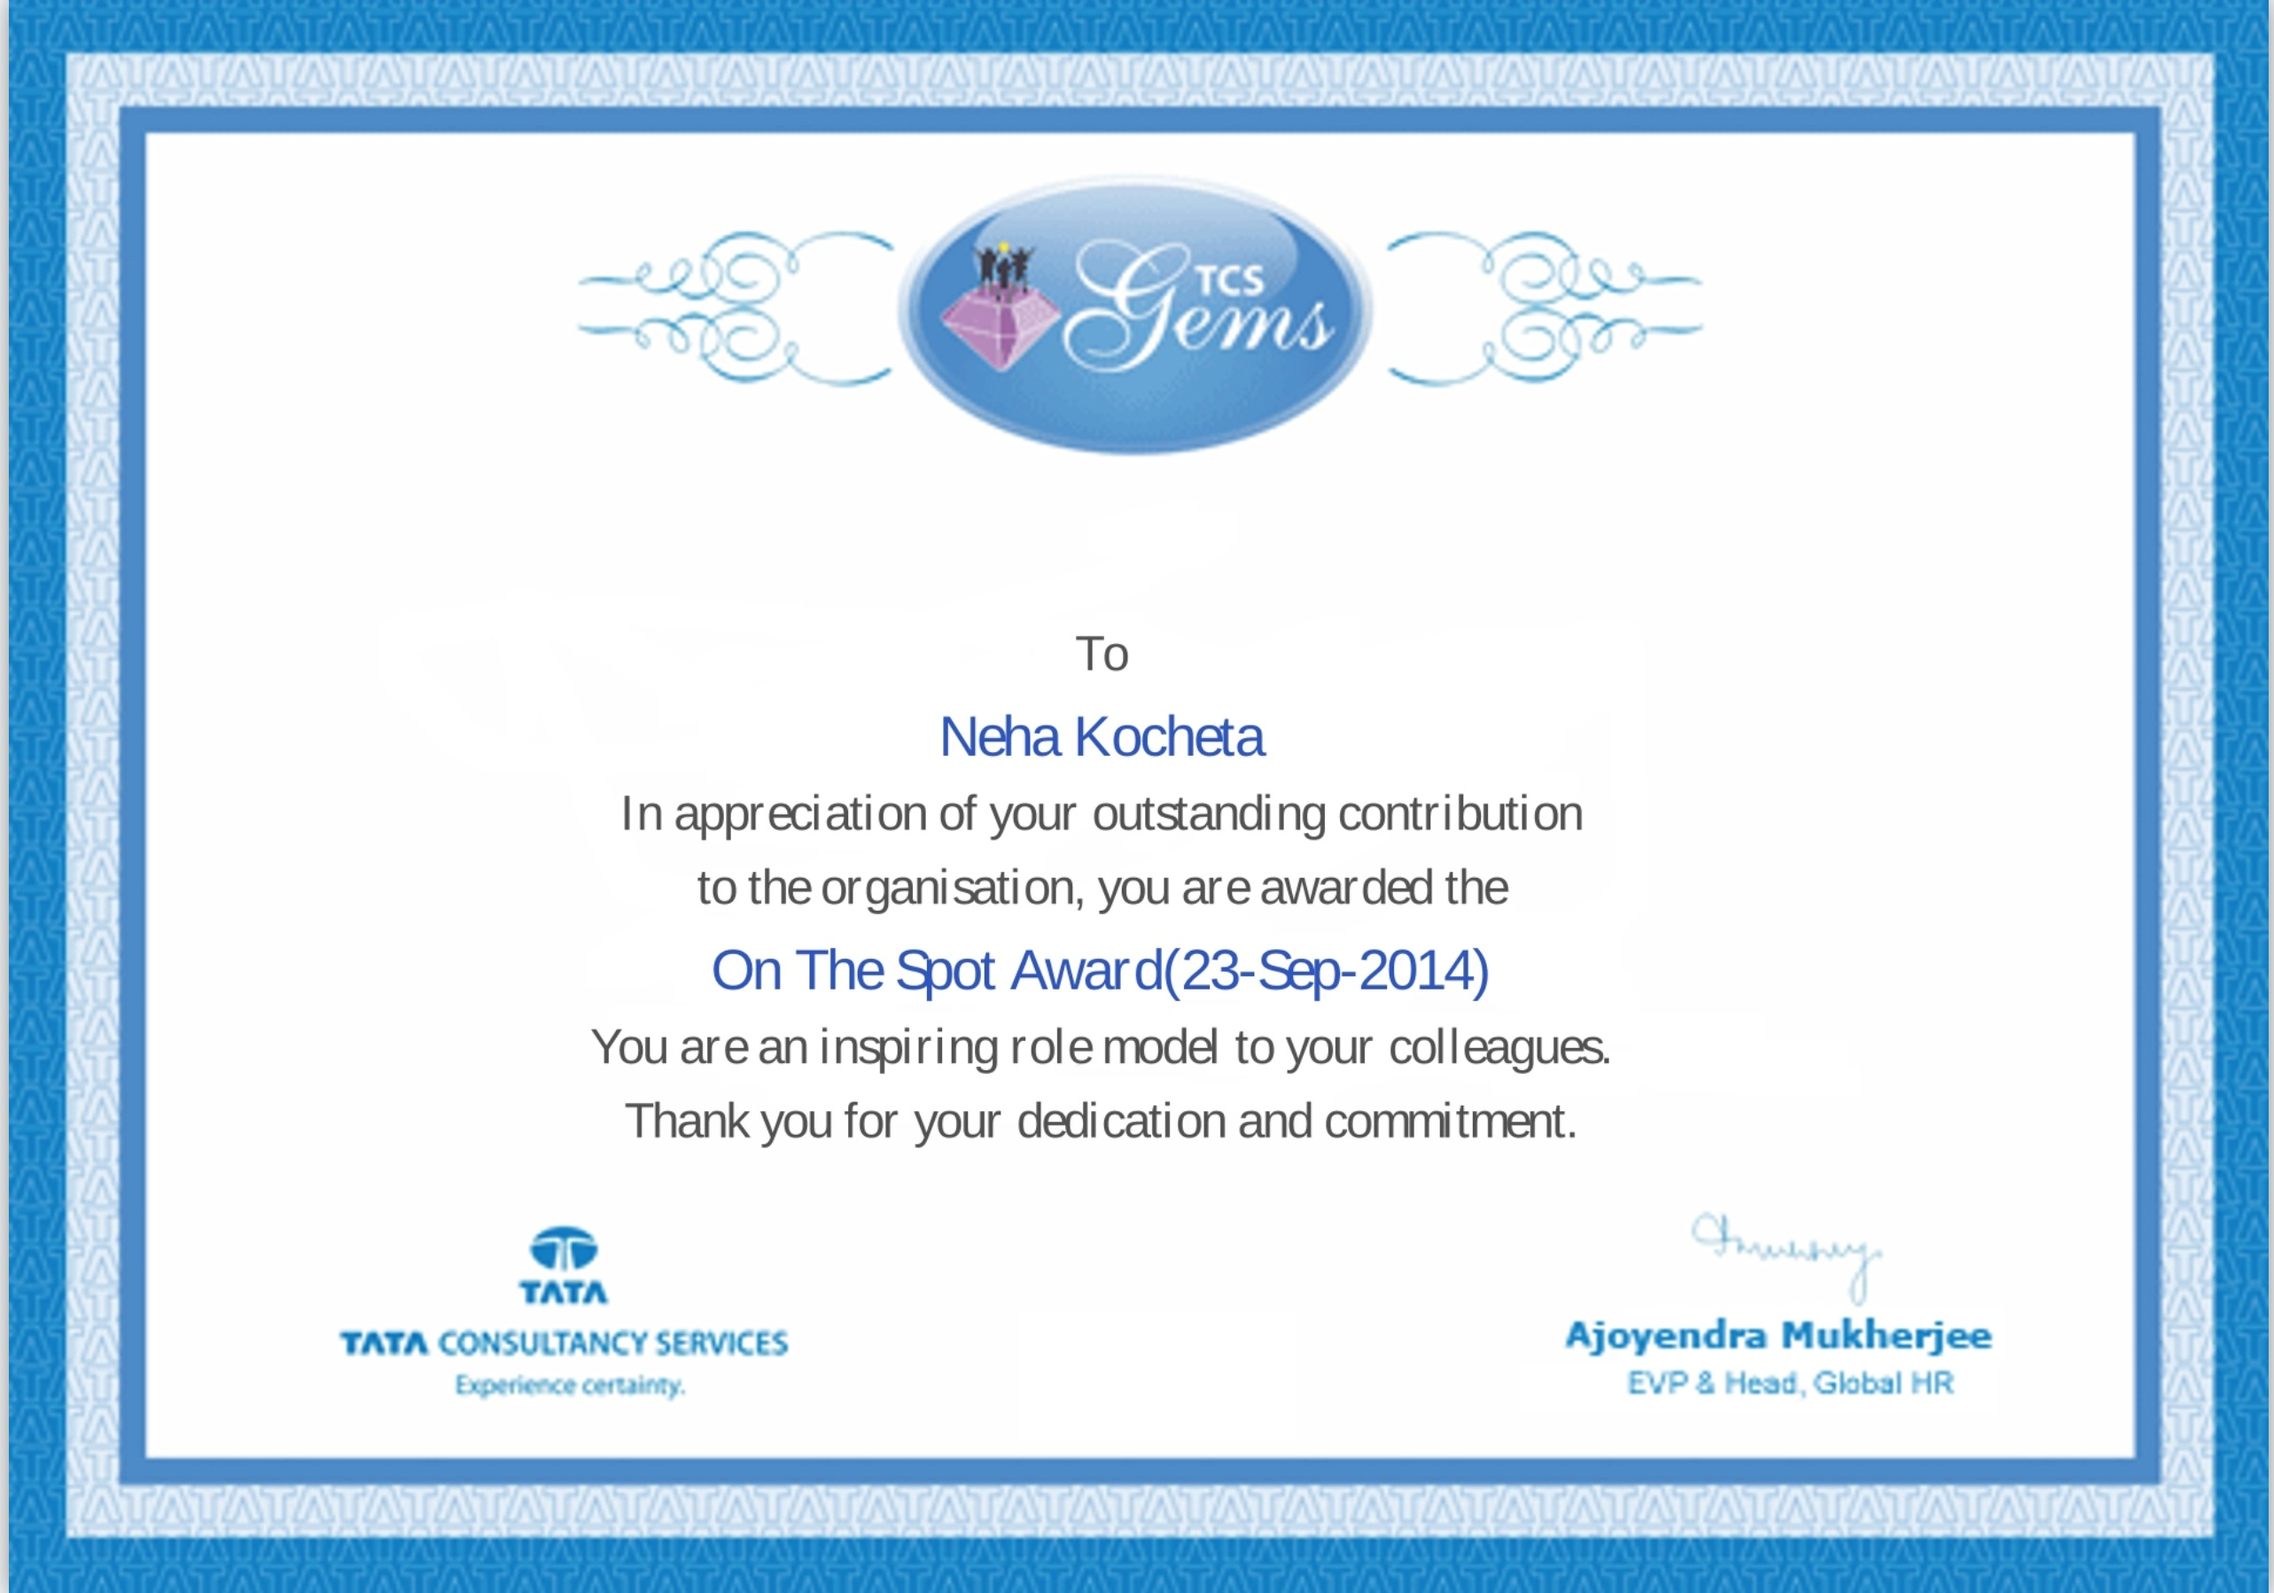
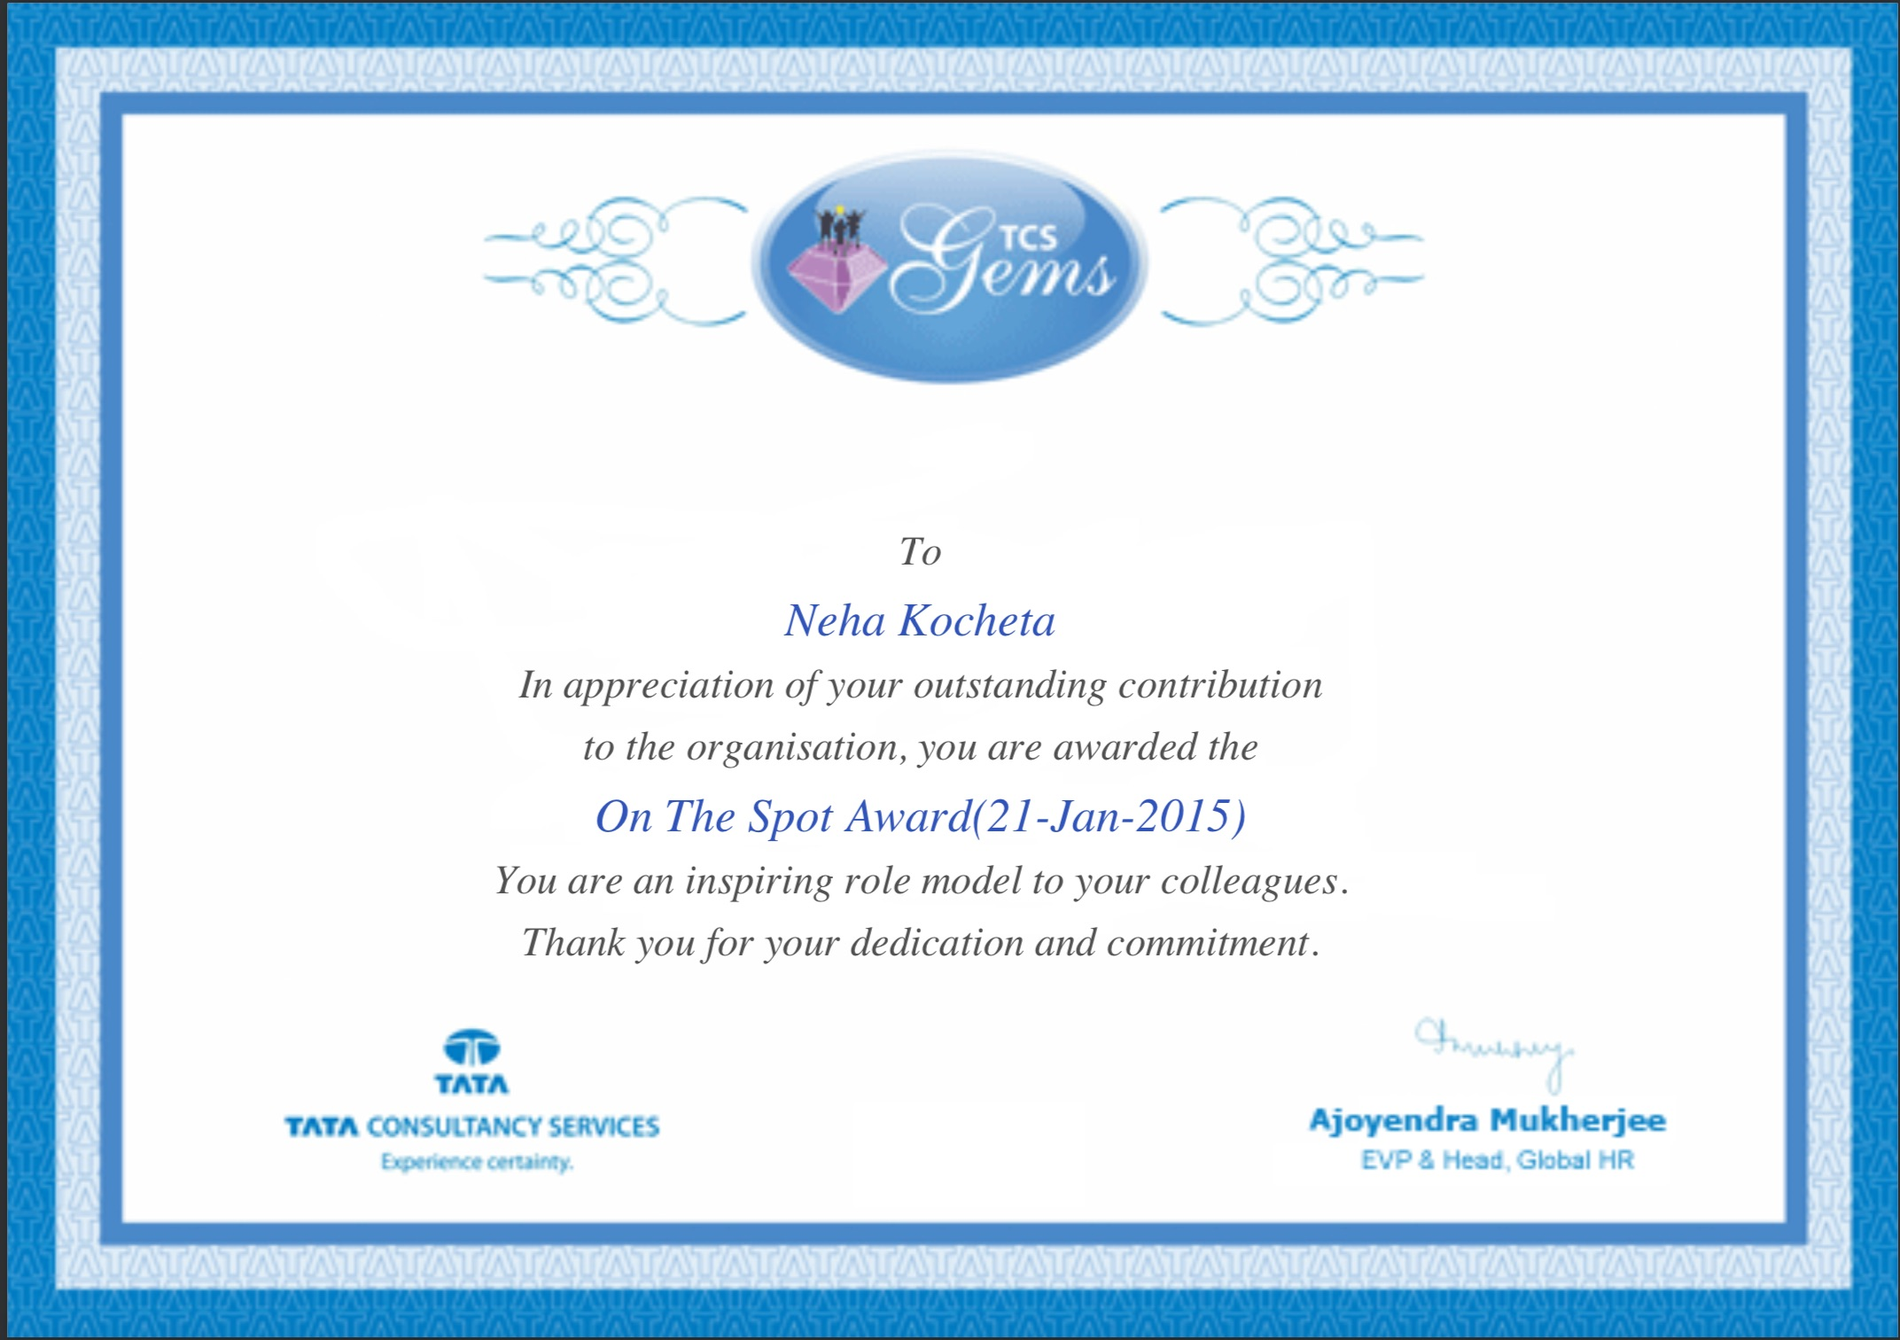
First release

diff --git a/index.html b/index.html
@@ -87,7 +87,7 @@
 
         <div class="section-title">
           <h2>About</h2>
-          <p>I am a DBA with 8 plus years of experience and currently working with TCS, India.</p>
+          <p>I am a DBA with 8 plus years of experience and currently working with TCS, India. Currently mainly working on MS SQL.</p>
         </div>
 
         <div class="row">
@@ -97,7 +97,7 @@
           <div class="col-lg-8 pt-4 pt-lg-0 content" data-aos="fade-left">
             <h3>Database Administrator</h3>
             <p class="font-italic">
-              A passionate DBA, who had created created and maintained Databases from scratch. I have consulted regarding performance tuning of DB, helped in query optimization. Having exposer to clouds (Azure and AWS). Created Databses on Azure IAAS & PAAS (Azure SQL).
+              A passionate DBA, who had created and maintained Databases from scratch. I have provided consultation regarding performance tuning & optimisation of SQL. Having exposer to clouds (Azure and AWS). Created Databases on Azure IAAS & PAAS (Azure SQL).
             </p>
             <div class="row">
               <div class="col-lg-6">
@@ -110,10 +110,10 @@
               </div>
               <div class="col-lg-6">
                 <ul>
-                  <li><i class="icofont-rounded-right"></i> <strong>Full Time:</strong>Available</li>
+                  <li><i class="icofont-rounded-right"></i> <strong>Full Time:</strong> Available</li>
                   <li><i class="icofont-rounded-right"></i> <strong>Degree:</strong> MCA (Master of Computer Applications)</li>
                   <li><i class="icofont-rounded-right"></i> <strong>Email:</strong> nehakocheta@gmail.com</li>
-                  <li><i class="icofont-rounded-right"></i> <strong>Freelance:</strong> Available(Part Time)</li>
+                  <li><i class="icofont-rounded-right"></i> <strong>Freelance:</strong> Available (Part Time)</li>
                 </ul>
               </div>
             </div>
@@ -146,7 +146,7 @@
           <div class="col-lg-3 col-md-6 d-md-flex align-items-md-stretch" data-aos="fade-up" data-aos-delay="100">
             <div class="count-box">
               <i class="icofont-building"></i>
-              <span data-toggle="counter-up">4</span>
+              <span data-toggle="counter-up">5</span>
               <p><strong>Certifications</strong> </p>
             </div>
           </div>
@@ -154,8 +154,8 @@
           <div class="col-lg-3 col-md-6 d-md-flex align-items-md-stretch" data-aos="fade-up" data-aos-delay="200">
             <div class="count-box">
               <i class="icofont-award"></i>
-              <span data-toggle="counter-up">2</span>
-              <p><strong>Awards</strong> </p>
+              <span data-toggle="counter-up">5</span>
+              <p><strong>Awards & Appreciations</strong> </p>
             </div>
           </div>
 
@@ -177,8 +177,9 @@
       <div class="container">
 
         <div class="section-title">
-          <h2>Skills</h2>
-          <p>I have worked on many tools and technologies. I am always open to learn any new tool or tech based on the requirement. Below is my current skill set</p>
+          <h2>Skills & Qualification</h2>
+          <p>Specializing in MSSQL database with almost 8.3 years of experience in various aspects of MSSQL including implementation, migration, maintenance, backup, monitoring, disaster recovery, replication, patching, upgrade and performance monitoring.</p>
+            <p> <br>    I have also provided on-call support, resolved incidents, provided RCAs and worked as L3 support. I have done automation for monitoring, reporting and alerting.  I have experince on on-pren data center and as well as cloud (mainly Azure). Below is my current skill set. I am mainly working on <b>MS SQL</b> Database now.</p>
         </div>
 
         <div class="row skills-content">
@@ -221,60 +222,60 @@
             </div>
 
             <div class="progress">
-              <span class="skill">Python and Shell<i class="val">80%</i></span>
+              <span class="skill">Database Monitoring, Reporting and Alering<i class="val">100%</i></span>
               <div class="progress-bar-wrap">
-                <div class="progress-bar" role="progressbar" aria-valuenow="80" aria-valuemin="0" aria-valuemax="80"></div>
+                <div class="progress-bar" role="progressbar" aria-valuenow="100" aria-valuemin="0" aria-valuemax="100"></div>
               </div>
             </div>
 
 
           </div>
 
-          <!-- <div class="col-lg-6" data-aos="fade-up" data-aos-delay="100">
+          <div class="col-lg-6" data-aos="fade-up" data-aos-delay="100">
 
             <div class="progress">
-              <span class="skill">Containers and Orchestration (Docker, Kubernetes, Docker Swarm) <i class="val">100%</i></span>
+              <span class="skill">Database Upgrade and Patching <i class="val">100%</i></span>
               <div class="progress-bar-wrap">
                 <div class="progress-bar" role="progressbar" aria-valuenow="100" aria-valuemin="0" aria-valuemax="100"></div>
               </div>
             </div>
 
             <div class="progress">
-              <span class="skill">Source Code Management (GitHub, BitBucket, Perforce, SVN) <i class="val">100%</i></span>
+              <span class="skill">Providing L3 Support <i class="val">100%</i></span>
               <div class="progress-bar-wrap">
                 <div class="progress-bar" role="progressbar" aria-valuenow="100" aria-valuemin="0" aria-valuemax="100"></div>
               </div>
             </div>
 
             <div class="progress">
-              <span class="skill">Slack Chatbots <i class="val">100%</i></span>
+              <span class="skill">Database Migration <i class="val">100%</i></span>
               <div class="progress-bar-wrap">
                 <div class="progress-bar" role="progressbar" aria-valuenow="100" aria-valuemin="0" aria-valuemax="100"></div>
               </div>
             </div>
 
             <div class="progress">
-              <span class="skill">OS - Linux(Mainly), Windows <i class="val">100%</i></span>
+              <span class="skill">HA, DR & Clustering<i class="val">100%</i></span>
               <div class="progress-bar-wrap">
                 <div class="progress-bar" role="progressbar" aria-valuenow="100" aria-valuemin="0" aria-valuemax="100"></div>
               </div>
             </div>
 
             <div class="progress">
-              <span class="skill">Build Tools (Maven, Ant, Gradle) <i class="val">100%</i></span>
+              <span class="skill">Log shipping, Mirroring, Replication <i class="val">100%</i></span>
               <div class="progress-bar-wrap">
                 <div class="progress-bar" role="progressbar" aria-valuenow="100" aria-valuemin="0" aria-valuemax="100"></div>
               </div>
             </div>
 
             <div class="progress">
-              <span class="skill">Logging (Splunk, ELK) <i class="val">100%</i></span>
+              <span class="skill">Databse Planning <i class="val">100%</i></span>
               <div class="progress-bar-wrap">
                 <div class="progress-bar" role="progressbar" aria-valuenow="100" aria-valuemin="0" aria-valuemax="100"></div>
               </div>
             </div>
 
-          </div> -->
+          </div>
 
 
         </div>
@@ -296,7 +297,7 @@
             <h3 class="resume-title">Summary</h3>
             <div class="resume-item pb-0">
               <h4>Neha Kocheta</h4>
-              <p><em>I have started my career in 2011 with TCS as DBA after completing my MCA from Indore. </em></p>
+              <p><em>I have started my career in 2012 with TCS as DBA after completing my MCA from Indore. </em></p>
               <ul>
                 <li>Whitefield, bangalore, India</li>
                 <li>(0091) 9769-7340-86</li>
@@ -306,23 +307,34 @@
 
             <h3 class="resume-title">Education</h3>
             <div class="resume-item">
-              <h4>MCA - 70%</h4>
+              <h4>MCA (Distinction) - 77%</h4>
               <h5>2008 - 2011</h5>
               <p><em>Shri Vaishnav Institute of Technology & Science, Indore(M.P) </em></p>
-              <p>I scored 70th rank in MP-PET (state level engineering entrance exam) and got addmission in SGSITS, Indore in 2005. I have completed my engineering in Electronics & Telecommunication in 2009.</p>
+              <p>2nd Rank holder in the college.</p>
             </div>
             <div class="resume-item">
-              <h4>Higher Secondary (12th Standards) - 84%</h4>
+              <h4>B.Sc I.T (Distinction) - 78%</h4>
+              <h5>2004 - 2007</h5>
+              <p><em>Jiwaji University, Gwalior(M.P) </em></p>
+              <p>2nd Rank holder in the college.</p>
+            </div>
+
+            <div class="resume-item">
+              <h4>Higher Secondary (12th Standards) - 62%</h4>
               <h5>2003 - 2004</h5>
               <p><em>SVHSS, Ashoknagar(MP)</em></p>
-              <p>Completed my 12th from my hometown in 2004 with 84%. After that went to Kota for AIEEE preparation and spent 1 year in Kota, Rajsthan. </p>
+            </div>
+            <div class="resume-item">
+              <h4>High School (10th Standards) - 74%</h4>
+              <h5>2001 - 2002</h5>
+              <p><em>SVHSS, Ashoknagar(MP)</em></p>
             </div>
           </div>
           <div class="col-lg-6" data-aos="fade-up" data-aos-delay="100">
             <h3 class="resume-title">Professional Experience</h3>
             <div class="resume-item">
-              <h4>Senior DBA DevOps Engineer</h4>
-              <h5>2011 - Present</h5>
+              <h4>Senior DBA</h4>
+              <h5>2012 - Present</h5>
               <p><em>TCS, Bangalore, India </em></p>
               <!-- <ul>
                 <li>Lead in the design, development, and implementation of the graphic, layout, and production communication materials</li>
@@ -389,10 +401,11 @@
               <div class="portfolio-links">
                 <a href="assets/img/portfolio/OCA.jpg" data-gall="portfolioGallery" class="venobox" title="App 1"><i class="bx bx-plus"></i></a>
                 <!-- <a href="portfolio-details.html" title="More Details"><i class="bx bx-link"></i></a> -->
-              </div>
+
+            </div>
+            <p><strong>OCA</strong> </p>
             </div>
           </div>
-
 
 
           <div class="col-lg-4 col-md-6 portfolio-item filter-app">
@@ -402,6 +415,29 @@
                 <a href="assets/img/portfolio/DB2.jpg" data-gall="portfolioGallery" class="venobox" title="App 1"><i class="bx bx-plus"></i></a>
                 <!-- <a href="portfolio-details.html" title="More Details"><i class="bx bx-link"></i></a> -->
               </div>
+              <p><strong>DB2</strong> </p>
+            </div>
+          </div>
+
+          <div class="col-lg-4 col-md-6 portfolio-item filter-app">
+            <div class="portfolio-wrap">
+              <img src="assets/img/portfolio/agile.jpg" class="img-fluid" alt="">
+              <div class="portfolio-links">
+                <a href="assets/img/portfolio/agile.jpg" data-gall="portfolioGallery" class="venobox" title="App 1"><i class="bx bx-plus"></i></a>
+                <!-- <a href="portfolio-details.html" title="More Details"><i class="bx bx-link"></i></a> -->
+              </div>
+              <p><strong>Agile</strong> </p>
+            </div>
+          </div>
+
+          <div class="col-lg-4 col-md-6 portfolio-item filter-app">
+            <div class="portfolio-wrap">
+              <img src="assets/img/portfolio/OCP-Score.jpg" class="img-fluid" alt="">
+              <div class="portfolio-links">
+                <a href="assets/img/portfolio/OCP-Score.jpg" data-gall="portfolioGallery" class="venobox" title="App 1"><i class="bx bx-plus"></i></a>
+                <!-- <a href="portfolio-details.html" title="More Details"><i class="bx bx-link"></i></a> -->
+              </div>
+              <p><strong>OCP Score</strong> </p>
             </div>
           </div>
 
@@ -412,8 +448,10 @@
                 <a href="assets/img/portfolio/award-1.jpg" data-gall="portfolioGallery" class="venobox" title="Card 2"><i class="bx bx-plus"></i></a>
                 <!-- <a href="portfolio-details.html" title="More Details"><i class="bx bx-link"></i></a> -->
               </div>
+              <p><strong>Spot Award</strong> </p>
             </div>
           </div>
+
 
           <div class="col-lg-4 col-md-6 portfolio-item filter-card">
             <div class="portfolio-wrap">
@@ -422,8 +460,45 @@
                 <a href="assets/img/portfolio/award-2.jpg" data-gall="portfolioGallery" class="venobox" title="Card 2"><i class="bx bx-plus"></i></a>
                 <!-- <a href="portfolio-details.html" title="More Details"><i class="bx bx-link"></i></a> -->
               </div>
+              <p><strong>Spot Award</strong> </p>
             </div>
           </div>
+
+          <div class="col-lg-4 col-md-6 portfolio-item filter-card">
+            <div class="portfolio-wrap">
+              <img src="assets/img/portfolio/Appreciation-1.jpg" class="img-fluid" alt="">
+              <div class="portfolio-links">
+                <a href="assets/img/portfolio/Appreciation-1.jpg" data-gall="portfolioGallery" class="venobox" title="Card 2"><i class="bx bx-plus"></i></a>
+                <!-- <a href="portfolio-details.html" title="More Details"><i class="bx bx-link"></i></a> -->
+              </div>
+              <p><strong>Appreciation Award</strong> </p>
+            </div>
+          </div>
+
+          <div class="col-lg-4 col-md-6 portfolio-item filter-card">
+            <div class="portfolio-wrap">
+              <img src="assets/img/portfolio/Appreciation-2.jpg" class="img-fluid" alt="">
+              <div class="portfolio-links">
+                <a href="assets/img/portfolio/Appreciation-2.jpg" data-gall="portfolioGallery" class="venobox" title="Card 2"><i class="bx bx-plus"></i></a>
+                <!-- <a href="portfolio-details.html" title="More Details"><i class="bx bx-link"></i></a> -->
+              </div>
+              <p><strong>Appreciation Award</strong> </p>
+            </div>
+          </div>
+
+          <div class="col-lg-4 col-md-6 portfolio-item filter-card">
+            <div class="portfolio-wrap">
+              <img src="assets/img/portfolio/commitment-award.jpg" class="img-fluid" alt="">
+              <div class="portfolio-links">
+                <a href="assets/img/portfolio/commitment-award.jpg" data-gall="portfolioGallery" class="venobox" title="Card 2"><i class="bx bx-plus"></i></a>
+                <!-- <a href="portfolio-details.html" title="More Details"><i class="bx bx-link"></i></a> -->
+              </div>
+              <p><strong>Commitment Award</strong> </p>
+            </div>
+          </div>
+
+
+
 
           <div class="col-lg-4 col-md-6 portfolio-item filter-app">
             <div class="portfolio-wrap">
@@ -432,6 +507,7 @@
                 <a href="assets/img/portfolio/ITIL.jpg" data-gall="portfolioGallery" class="venobox" title="App 1"><i class="bx bx-plus"></i></a>
                 <!-- <a href="portfolio-details.html" title="More Details"><i class="bx bx-link"></i></a> -->
               </div>
+              <p><strong>ITIL</strong> </p>
             </div>
           </div>
 
